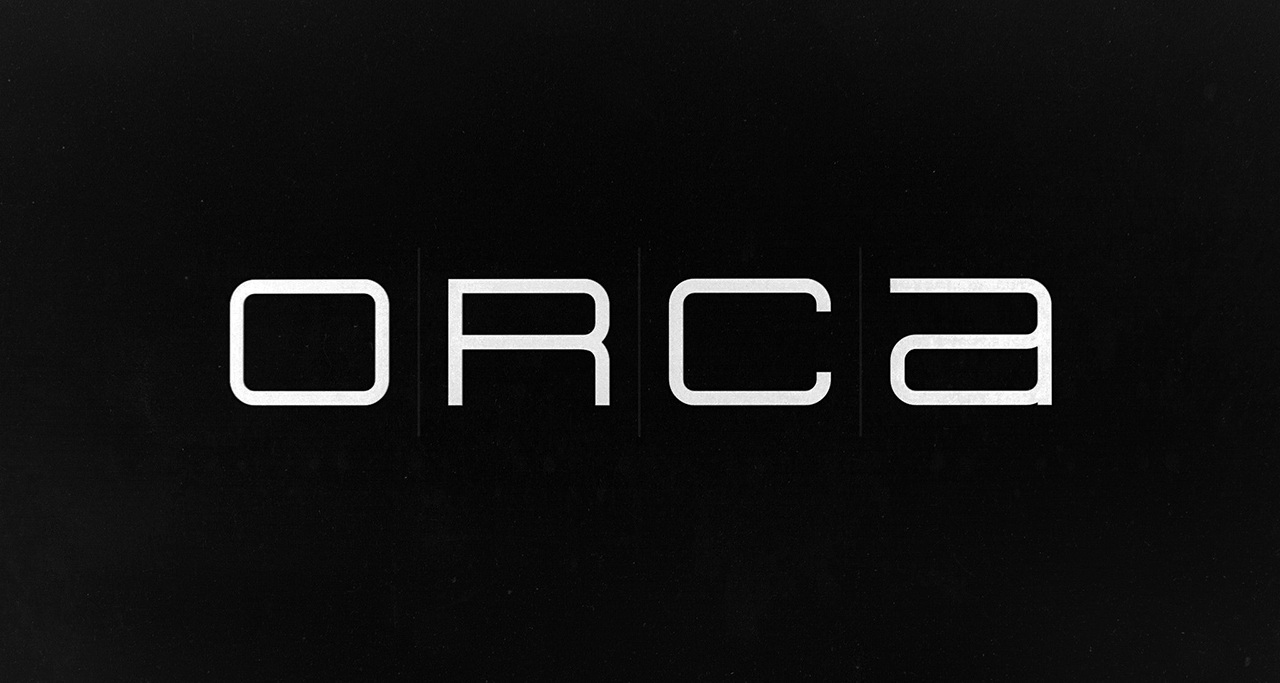
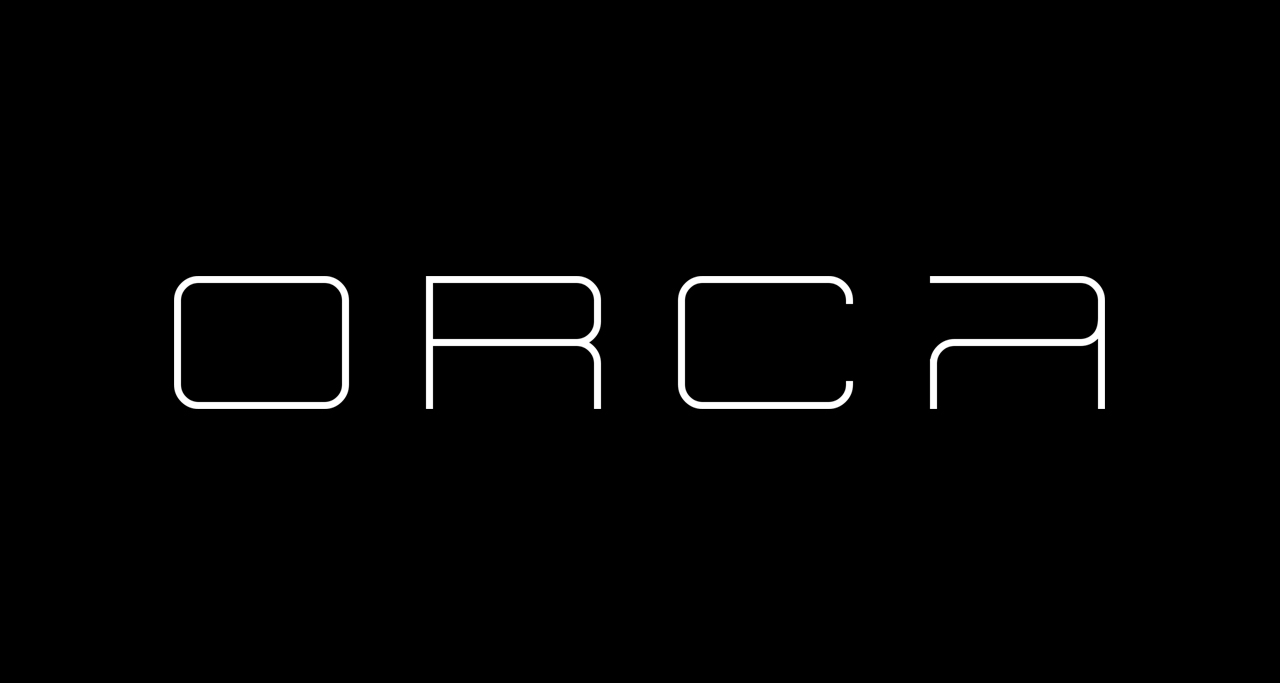
Updated ORCA
-Added workshop section on Orca page
-Added workshop section in press
-Removed oudated images
-Updated ORCA logo
-Fixed ORCA description

Changed region(s): [[0.125, 0.3997, 0.875, 0.6149], [0.0, 0.0, 0.0938, 0.0615]]

diff --git a/pages/orca.html b/pages/orca.html
@@ -5,7 +5,7 @@
   <meta charset="utf-8">
   <meta name="author" content="Devine Lu Linvega, Rekka Bellum">
   <meta name='description' content='A digital studio aboard a sailboat.'/>
-  <meta name='keywords' content='left, dotgrid, orca, introduction, download, tutorial, visual, extras' />
+  <meta name='keywords' content='left, dotgrid, orca, introduction, download, tutorial, workshops, visual, extras' />
   
   <title>Hundred Rabbits — Orca</title>
 
@@ -29,17 +29,30 @@
     <a id='logo' href='https://100r.co'></a>
     <div id='core'>
       <h1>Orca</h1>
+<ul class='jump'><li><a href='#introduction'>Introduction</a></li>
+<li><a href='#download'>Download</a></li>
+<li><a href='#tutorial'>Tutorial</a></li>
+<li><a href='#workshops'>Workshops</a></li>
+<li><a href='#visual'>Visual</a></li>
+<li><a href='#extras'>Extras</a></li>
+</ul>
 <h3 id='introduction'><a href='#introduction'>Introduction</a></h3>
 <img src='../media/content/applications/orca.main.jpg' class='undefined'/>
-<p class=''>Orca is a visual programming language, designed to create procedural sequencers on the fly, and control other applications.</p>
+<p class=''><b>ORCA</b> is an open-source visual programming language, designed to create procedural sequencers on the fly, and control other applications.</p><p class=''>ORCA is not a synthesizer, but a livecoding environment to write generative tools able to send MIDI, OSC or UDP data to DAWs (like Ableton, Renoise, VCV Rack, etc.), or an audio server such as SuperCollider. You can also use <b><a href='https://github.com/hundredrabbits/Pilot' target='_blank' class='external' data-goto=''>Pilot</a></b>, a companion application to ORCA.</p>
 <h3 id='download'><a href='#download'>Download</a></h3>
 <p class=''>You can view the <a href='https://github.com/hundredrabbits/Orca' target='_blank' class='external' data-goto=''>sources</a>, or <a href='http://hundredrabbits.itch.io/Orca' target='_blank' class='external' data-goto=''>download builds</a> for OSX, Windows and Linux here:</p><p class=''><iframe frameborder="0" src="https://itch.io/embed/225814?bg_color=000000&amp;fg_color=ffffff&amp;link_color=838383" width="552" height="167"></iframe></p>
 <h3 id='tutorial'><a href='#tutorial'>Tutorial</a></h3>
-<p class=''>Orca is <b>not a synthesizer</b>, but a <a href='https://www.reddit.com/r/livecoding/' target='_blank' class='external' data-goto=''>livecoding environment</a> to write generative tools able to send MIDI, OSC or UDP data to DAWs (like Ableton, Renoise, VCV Rack, etc.), or an audio server such as SuperCollider.</p><p class=''><b>Each letter of the alphabet is an operation</b>, uppercase letters operate each frame, lowercase letters operate on bang. Bangs can be generated by various operations, such as when an E collides with a 0.</p><p class=''>See some projects created with <a href='https://twitter.com/hashtag/ORCΛ' target='_blank' class='external' data-goto=''>ORCΛ</a>, or watch an <a href='https://www.youtube.com/watch?v=RaI_TuISSJE' target='_blank' class='external' data-goto=''>introduction video</a>.</p>
+<p class=''>Each letter of the alphabet is an operation, lowercase letters operate on bang, uppercase letters operate each frame.</p><p class=''>To learn more:</p>
+<ul class='bullet'><li class=''>Look at projects created with <b>#<a href='https://twitter.com/hashtag/ORCΛ' target='_blank' class='external' data-goto=''>ORCΛ</a></b></li><li class=''>Watch the <b><a href='https://www.youtube.com/watch?v=RaI_TuISSJE' target='_blank' class='external' data-goto=''>introduction video</a></b></li><li class=''>Check out <b><a href='https://github.com/hundredrabbits/Orca/tree/master/examples' target='_blank' class='external' data-goto=''>examples</a></b></li><li class=''>Follow the <b><a href='https://github.com/hundredrabbits/Orca/blob/master/TUTORIAL.md' target='_blank' class='external' data-goto=''>tutorials</a></b></li></ul>
+<p class=''>If you need some help:</p>
+<ul class='bullet'><li class=''>Visit the <b><a href='https://llllllll.co/t/orca-live-coding-tool/17689' target='_blank' class='external' data-goto=''>forum</a></b></li><li class=''>Go to the <b><a href='https://talk.lurk.org/channel/orca' target='_blank' class='external' data-goto=''>chatroom</a></b></li></ul>
+<p class=''>If you're looking for a portable distribution, visit <b><a href='http://github.com/hundredrabbits/Orca-c' target='_blank' class='external' data-goto=''>Orca-c</a></b>. If you're looking for the library for your <b><a href='https://monome.org/norns/' target='_blank' class='external' data-goto=''>Monome Norns</a></b>, visit <b><a href='https://github.com/itsyourbedtime/orca/' target='_blank' class='external' data-goto=''>Orca Norns</a></b>.</p><p class=''><b><a href='https://twitter.com/neauoire/status/1129920308088066048' target='_blank' class='external' data-goto=''>Watch a short video</a></b> of Devine performing with ORCA at Algomech 2019.</p>
 <img src='../media/content/applications/orca.3.jpg' class='undefined'/>
+<h3 id='workshops'><a href='#workshops'>Workshops</a></h3>
+<p class=''>If you want to organize an <b>ORCΛ workshop</b> in your area, let us know and we'll be happy to share it, but please <b>do not</b> charge attendees for access to the workshop.</p><p class=''>Keep an eye out for <a href='https://100r.co/pages/press.html#workshops' target='_blank' class='external' data-goto=''>upcoming workshop dates</a></p><p class=''>Hundredrabbits is open to <a href='https://twitter.com/hundredrabbits/status/1130118973889163265' target='_blank' class='external' data-goto=''>hosting workshops</a>, for travel opportunities contact us at</p>
+<ul class='bullet'><li class=''>hundredrabbits at gmail dot com</li></ul>
 <h3 id='visual'><a href='#visual'>Visual</a></h3>
-<img src='../media/content/applications/orca.1.jpg' class='undefined'/>
-<p class=''>You can change the look and colour of Orca. To do this, <a href='https://hundredrabbits.itch.io/orca' target='_blank' class='external' data-goto=''>download</a> themes from our itch.io page. You can view the colour palettes of each theme in the preview, once you find something you like, <b>drag the file</b> (.svg file) onto Orca. The colours will change instantly.</p><p class=''>These themes are part of the <b>Ecosystem Theme</b>, which means that you can apply a theme to any supported app (Left, Donsol, Pico and Marabu).</p><p class=''>You can also <a href='https://github.com/hundredrabbits/Themes#collection' target='_blank' class='external' data-goto=''>create</a> your own themes.</p>
+<p class=''>You can change the look and colour of Orca.</p><p class=''>To do this, <a href='https://hundredrabbits.itch.io/orca' target='_blank' class='external' data-goto=''>download</a> themes. You can view the colour palettes of each theme in the preview, once you find something you like, <b>drag the file</b> (.svg file) onto Orca. The colours will change instantly.</p><p class=''>These themes are part of the <b>Ecosystem Theme</b>, which means that you can apply a theme to any supported app (Left, Donsol, Pico and Marabu).</p><p class=''>You can also <a href='https://github.com/hundredrabbits/Themes#collection' target='_blank' class='external' data-goto=''>create</a> your own themes.</p>
 <h3 id='extras'><a href='#extras'>Extras</a></h3>
 <p class=''>This application supports the <a href='https://github.com/hundredrabbits/Themes' target='_blank' class='external' data-goto=''>Ecosystem Theme</a>. See the <a href='https://github.com/hundredrabbits/Orca/blob/master/LICENSE.md' target='_blank' class='external' data-goto=''>License</a> file for license rights and limitations (MIT). <a href='https://github.com/hundredrabbits/Orca' target='_blank' class='external' data-goto=''>Pull Requests</a> are welcome!</p>
     </div>

diff --git a/pages/rainy_with_a_chance_of_mosquitoes.html b/pages/rainy_with_a_chance_of_mosquitoes.html
@@ -41,9 +41,9 @@
 </ul>
 <h3 id='nuku_hiva_in_french_polynesia'><a href='#nuku_hiva_in_french_polynesia'>Nuku hiva in french polynesia</a></h3>
 <img src='../media/blog/nukuhiva1.jpg' class='undefined'/>
-<p class=''><b>Nuku Hiva</b>, a green island in the pacific, straight out of Jurassic Park, just as foreign and just as wild, except instead of hungry lizards there are hungry, angry mosquitoes.</p><p class=''>I had no idea what it was going to be like there, I'd barely read anything about it. I knew where we'd anchor, that people spoke french and that there would be baguettes, but beyond that it was a blur, a black spot in my mind. I read the book <b>Fourteen</b> during our 28-day transit from La Paz. In this book, the family had sailed to Nuku Hiva, but all in all their experience there was not so good. It wasn't made bad because of the Marquesans, or the island itself, but because of no-no's – little bugs that bite that hide in sand. I took a mental note of this:</p><p class=''>"Avoid sand beaches and you will have a great time!"</p>
+<p class=''><b>Nuku Hiva</b>, a green island in the pacific, straight out of Jurassic Park. Just as foreign and just as wild, except instead of hungry lizards there are hungry, angry mosquitoes.</p><p class=''>I had no idea what it was going to be like there, I'd barely read anything about it. I knew where we'd anchor, that people there spoke french and that there would be baguettes, but beyond that it was a blur, a black spot in my mind. I read the book <b>Fourteen</b> during our 28-day transit from La Paz. In this book, the family had sailed to Nuku Hiva, but all in all their experience there was not so good. It wasn't made bad because of the Marquesans, or the island itself, but because of no-no's – little bugs that bite that hide in sand. I took a mental note of this:</p><p class=''>"Avoid sand beaches and you will have a great time!"</p>
 <img src='../media/blog/nukuhiva13.jpg' class='undefined'/>
-<p class=''><a href='https://www.noforeignland.com/home/boat/4733784360484864/?sid=6547291309604864&tc=1557534132049' target='_blank' class='external' data-goto=''>Pino</a> arrived at the entrance to <a href='https://www.noforeignland.com/home/map/place/5690458764214272/?sid=6547291309604864&tc=1558533207558' target='_blank' class='external' data-goto=''>Taiohae bay</a>. I sat on the bow with Iggy's deflated corpse, I pumped life back into it, while it, seemed to draw the very life out of me. I was sweating, a constant stream sliding down my back. We had no dinghy pump, no, we broke ours ages ago. All we had was a jury-rigged contraption using a bike pump, a bike tube and the hose from the old pump. It worked, but it took twice as long to put air into anything.</p><p class=''>A super yatch was anchored in the mouth of the bay, its name was 'Ethereal'.</p>
+<p class=''><a href='https://www.noforeignland.com/home/boat/4733784360484864/?sid=6547291309604864&tc=1557534132049' target='_blank' class='external' data-goto=''>Pino</a> arrived at the entrance to <a href='https://www.noforeignland.com/home/map/place/5690458764214272/?sid=6547291309604864&tc=1558533207558' target='_blank' class='external' data-goto=''>Taiohae bay</a>. I sat on the bow with Iggy's deflated corpse, I pumped life back into it, while it, seemed to draw the life out of me. I was sweating, a constant stream oozing down my back. We had no dinghy pump. We broke it ages ago. All we had was a jury-rigged contraption using a bike pump, a bike tube and the hose from the old pump. It worked, but it took twice as long to put air into anything.</p><p class=''>A super yatch was anchored in the mouth of the bay, its name was 'Ethereal'.</p>
 <ul class='bullet'><li class=''>"How fitting." I thought.</li></ul>
 <p class=''>It's as if the yatch was a sign, a warning of the view to come – one, that is definitely ethereal.</p><p class=''>A chain of mountains, green and fuzzy, and ahead a bay filled with boats flying flags from all over the world. We found a spot in 12m of water, mud bottom, and dropped anchor. The sky was clear, but clouds clung to the peaks of every mountain. It was a rare thing, we realized afterwards, for the skies to be clear. Most days were grey. While grey often means rain, it also means less sun. It was over 30 degrees every day, so hot that at times we couldn't work, our bodies shiny with sweat, driving us mad. Mad to the point that we seriously considered flooding the cockpit with water to turn it into a pool.</p>
 <img src='../media/blog/nukuhiva12.jpg' class='undefined'/>

diff --git a/pages/press.html b/pages/press.html
@@ -5,7 +5,7 @@
   <meta charset="utf-8">
   <meta name="author" content="Devine Lu Linvega, Rekka Bellum">
   <meta name='description' content='A digital studio aboard a sailboat.'/>
-  <meta name='keywords' content='about, library, mission, pino, videos, support, press, performances, talks, features, interviews, video, appearances, print, podcasts, oquonie, donsol, hiversaires' />
+  <meta name='keywords' content='about, library, mission, pino, videos, support, press, performances, workshops, talks, features, interviews, video, appearances, print, podcasts, oquonie, donsol, hiversaires' />
   
   <title>Hundred Rabbits — Press</title>
 
@@ -30,6 +30,7 @@
     <div id='core'>
       <h1>Press</h1>
 <ul class='jump'><li><a href='#performances'>Performances</a></li>
+<li><a href='#workshops'>Workshops</a></li>
 <li><a href='#talks'>Talks</a></li>
 <li><a href='#features'>Features</a></li>
 <li><a href='#interviews'>Interviews</a></li>
@@ -42,7 +43,9 @@
 <li><a href='#hiversaires'>Hiversaires</a></li>
 </ul>
 <h3 id='performances'><a href='#performances'>Performances</a></h3>
-<ul class='bullet'><li class=''><a href='https://algomech.com/2019/events/orca/' target='_blank' class='external' data-goto=''>Algomech Festival</a>, Sheffield, UK, 2019.</li><li class=''><a href='https://amazeberlin2019.sched.com/2019-04-11/overview' target='_blank' class='external' data-goto=''>Orca livecoding performance</a> by Johannes Knop, A MAZE, Berlin, 2019.</li></ul>
+<ul class='bullet'><li class=''><a href='https://algomech.com/2019/events/orca/' target='_blank' class='external' data-goto=''>Algomech Festival</a>, Sheffield, UK, May 18th 2019.</li><li class=''><a href='https://amazeberlin2019.sched.com/2019-04-11/overview' target='_blank' class='external' data-goto=''>Orca livecoding performance</a> by Johannes Knop, A MAZE, Berlin, 2019.</li></ul>
+<h3 id='workshops'><a href='#workshops'>Workshops</a></h3>
+<ul class='bullet'><li class=''><a href='https://algomech.com/2019/events/orca/' target='_blank' class='external' data-goto=''>Algomech Festival: Orca workshop</a>, Sheffield, UK, May 19th 2019.</li><li class=''><a href='https://twitter.com/moxus' target='_blank' class='external' data-goto=''>Moxus</a> Orca workshop, <a href='https://twitter.com/KasaiSpace' target='_blank' class='external' data-goto=''>Kasai Space</a>, Tokyo, Japan, May 25th 2019.</li></ul>
 <h3 id='talks'><a href='#talks'>Talks</a></h3>
 <ul class='bullet'><li class=''><a href='https://youtu.be/WY5QwPBOsZY' target='_blank' class='external' data-goto=''>Digital Nomads</a>, Play by Play, New Zealand, 2018.</li><li class=''><a href='https://www.youtube.com/watch?v=w5bbJcimCcs' target='_blank' class='external' data-goto=''>The frameworks for mystics</a>, A MAZE, Berlin, 2015.</li></ul>
 <h3 id='features'><a href='#features'>Features</a></h3>

diff --git a/pages/about.html b/pages/about.html
@@ -38,7 +38,7 @@
 <h3 id='goal'><a href='#goal'>Goal</a></h3>
 <p class=''>Our <a href='mission.html' target='_self' class='local' data-goto='mission'>goal</a> is to keep moving, while continuing to work on <a href='http://hundredrabbits.itch.io/' target='_blank' class='external' data-goto=''>cool stuff</a>. We document our travels as we go, our aim is to learn as much as we can about <a href='sailing.html' target='_self' class='local' data-goto='sailing'>sailing</a>, the world, about <a href='off_the_grid.html' target='_self' class='local' data-goto='off the grid'>offgrid living</a>; to have a small ecological footprint, and to share knowledge and have it be available to all.</p>
 <h3 id='follow_us'><a href='#follow_us'>Follow us</a></h3>
-<ul class='bullet'><li class=''>Subscribe to our blog RSS Feed <a href='http://100r.co/links/rss.xml' target='_blank' class='external' data-goto=''>here</a>.</li><li class=''>Follow us on Twitter <a href='http://twitter.com/hundredrabbits' target='_blank' class='external' data-goto=''>hundredrabbits</a></li><li class=''>Follow us on Mastodon <a href='https://merveilles.town/@rek' target='_blank' class='external' data-goto=''>@rek</a> & <a href='https://merveilles.town/@neauoire' target='_blank' class='external' data-goto=''>@neauoire</a>.</li><li class=''>Visit our websites <a href='https://kokorobot.ca' target='_blank' class='external' data-goto=''>Kokorobot</a> & <a href='https://xxiivv.com' target='_blank' class='external' data-goto=''>XXIIVV</a>.</li></ul>
+<ul class='bullet'><li class=''>Subscribe to our blog RSS Feed <a href='http://100r.co/links/rss.xml' target='_blank' class='external' data-goto=''>here</a>.</li><li class=''>Follow us on Twitter <a href='http://twitter.com/hundredrabbits' target='_blank' class='external' data-goto=''>hundredrabbits</a></li><li class=''>Follow us on Mastodon <a href='https://merveilles.town/@rek' target='_blank' class='external' data-goto=''>@rek</a> & <a href='https://merveilles.town/@neauoire' target='_blank' class='external' data-goto=''>@neauoire</a>.</li><li class=''>Visit our websites <a href='https://kokorobot.ca' target='_blank' class='external' data-goto=''>Kokorobot</a> & <a href='https://xxiivv.com' target='_blank' class='external' data-goto=''>XXIIVV</a>.</li><li class=''>Drop us a line at hundredrabbits at gmail dot com.</li></ul>
     </div>
     <div id='navi'>
       <ul><li><a href='home.html'>home</a></li>

diff --git a/pages/home.html b/pages/home.html
@@ -67,6 +67,7 @@
 
 <h3 id='press'><a href='press.html'>Press</a></h3>
 <ul><li><a href='press.html#performances'>Performances</a></li>
+<li><a href='press.html#workshops'>Workshops</a></li>
 <li><a href='press.html#talks'>Talks</a></li>
 <li><a href='press.html#features'>Features</a></li>
 <li><a href='press.html#interviews'>Interviews</a></li>

diff --git a/pages/tools.html b/pages/tools.html
@@ -67,6 +67,7 @@
 <ul><li><a href='orca.html#introduction'>Introduction</a></li>
 <li><a href='orca.html#download'>Download</a></li>
 <li><a href='orca.html#tutorial'>Tutorial</a></li>
+<li><a href='orca.html#workshops'>Workshops</a></li>
 <li><a href='orca.html#visual'>Visual</a></li>
 <li><a href='orca.html#extras'>Extras</a></li>
 </ul>
